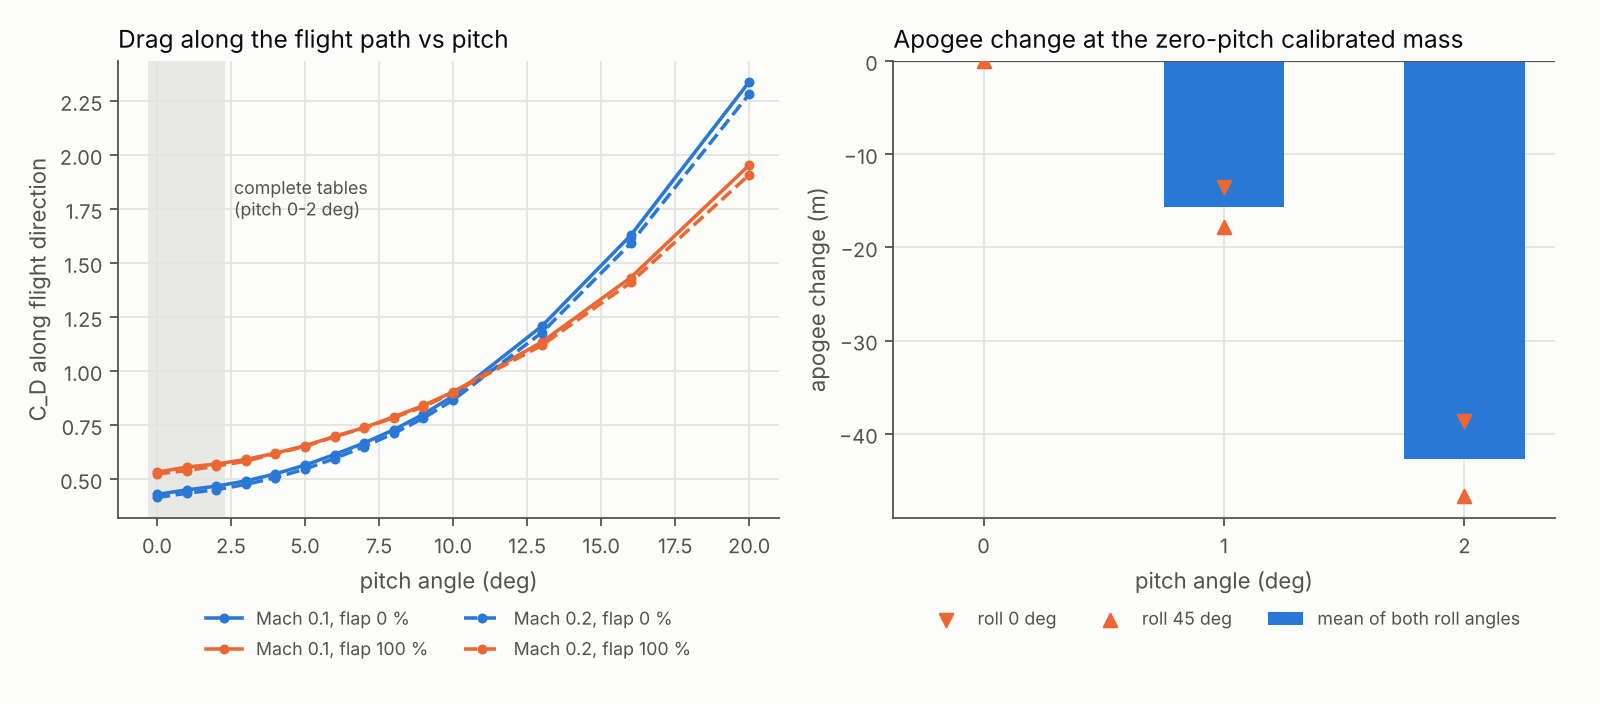
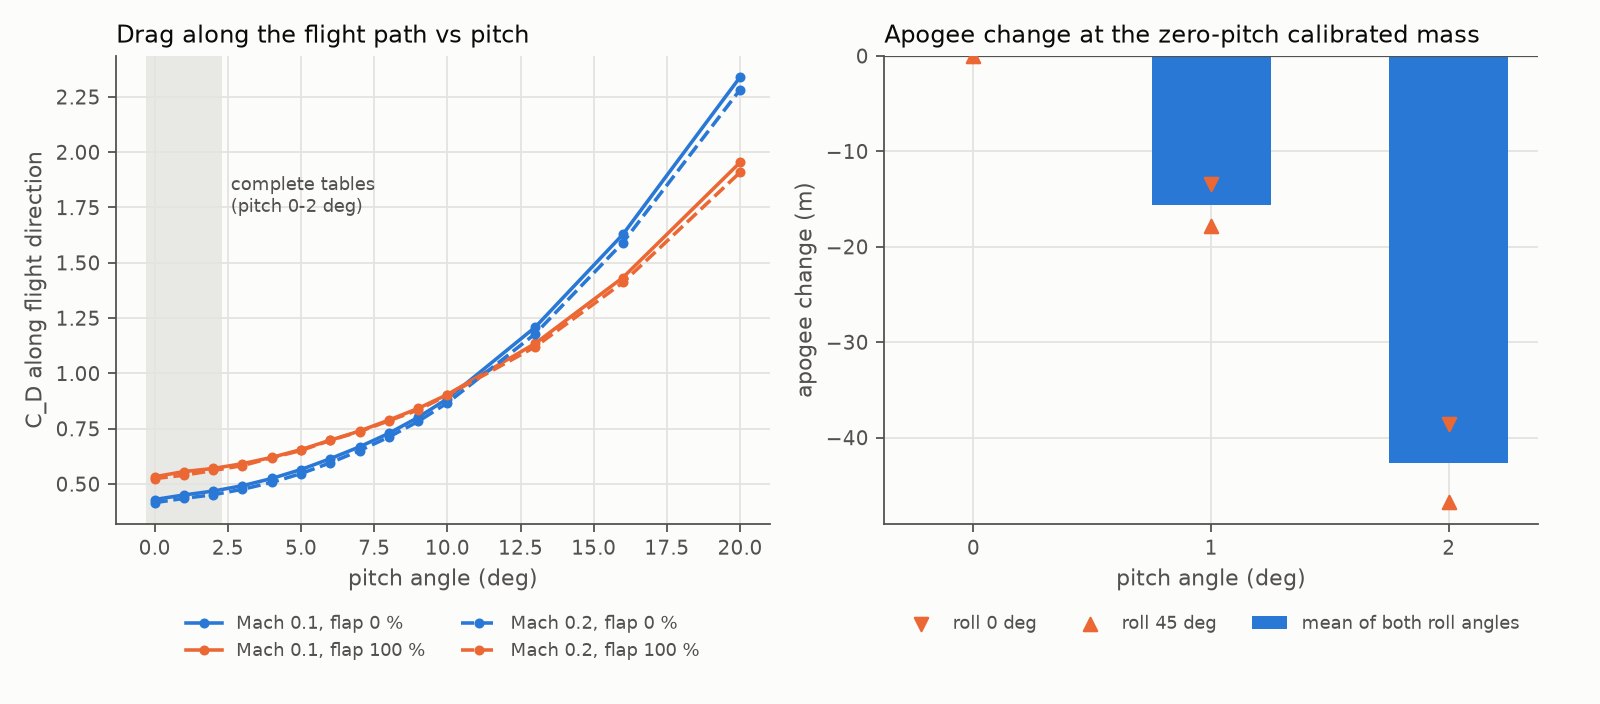
Refresh results

diff --git a/docs/results.md b/docs/results.md
@@ -23,8 +23,8 @@ Observed order (Euler over 6 steps, RK4 over the first 4): Euler 1.00, RK4 4.01
 
 | method | mass (kg) | simulations | time (s) |
 |---|---|---|---|
-| bisect | 35.9923 | 25 | 0.60 |
-| brent | 35.9923 | 11 | 0.23 |
+| bisect | 35.9923 | 25 | 0.54 |
+| brent | 35.9923 | 11 | 0.25 |
 
 Check with DOP853 reference at the calibrated mass: apogee 3450.001 m (target 3450.0 m)
 
@@ -33,14 +33,14 @@ Check with DOP853 reference at the calibrated mass: apogee 3450.001 m (target 34
 | dt (s) | Euler error (m) | RK4 error (m) | Euler evals | RK4 evals |
 |---|---|---|---|---|
 | 0.8000 | 6.228e+01 | 3.943e-03 | 90 | 360 |
-| 0.4000 | 3.152e+01 | 2.351e-03 | 119 | 476 |
-| 0.2000 | 1.586e+01 | 3.702e-04 | 177 | 708 |
-| 0.1000 | 7.952e+00 | 2.044e-05 | 293 | 1172 |
-| 0.0500 | 3.983e+00 | 1.263e-05 | 525 | 2100 |
-| 0.0250 | 1.993e+00 | 1.111e-05 | 988 | 3956 |
-| 0.0125 | 9.968e-01 | 5.852e-06 | 1915 | 7664 |
+| 0.4000 | 3.152e+01 | 2.350e-03 | 119 | 476 |
+| 0.2000 | 1.586e+01 | 3.707e-04 | 177 | 708 |
+| 0.1000 | 7.952e+00 | 2.093e-05 | 293 | 1172 |
+| 0.0500 | 3.983e+00 | 1.214e-05 | 525 | 2100 |
+| 0.0250 | 1.993e+00 | 1.062e-05 | 988 | 3956 |
+| 0.0125 | 9.968e-01 | 6.342e-06 | 1915 | 7664 |
 
-Observed order (first 5 steps): Euler 0.99, RK4 2.07
+Observed order (first 5 steps): Euler 0.99, RK4 2.09
 
 ### RK4 error vs smoothness of C_D(Mach) (reference: DOP853, rtol 1e-13)
 
@@ -48,11 +48,11 @@ Observed order (first 5 steps): Euler 0.99, RK4 2.07
 |---|---|---|---|
 | 0.8000 | 3.94e-03 | 6.55e-04 | 2.32e-04 |
 | 0.4000 | 2.35e-03 | 4.55e-05 | 1.41e-05 |
-| 0.2000 | 3.70e-04 | 1.35e-06 | 8.71e-07 |
-| 0.1000 | 2.05e-05 | 6.93e-07 | 5.40e-08 |
-| 0.0500 | 1.26e-05 | 1.43e-07 | 3.36e-09 |
-| 0.0250 | 1.11e-05 | 4.80e-08 | 2.04e-10 |
-| 0.0125 | 5.89e-06 | 1.83e-08 | 1.36e-12 |
+| 0.2000 | 3.70e-04 | 1.36e-06 | 8.71e-07 |
+| 0.1000 | 2.01e-05 | 6.99e-07 | 5.40e-08 |
+| 0.0500 | 1.30e-05 | 1.37e-07 | 3.36e-09 |
+| 0.0250 | 1.15e-05 | 5.41e-08 | 2.02e-10 |
+| 0.0125 | 5.47e-06 | 1.22e-08 | 4.55e-13 |
 
 RK4 is fourth order only for the smooth C_D; slope jumps in the interpolated table cap the observed order and set an error floor, far below the modelling uncertainty (metres).
 
@@ -98,29 +98,29 @@ Drag-free apogee: 4545 m. Mass if 3450 m were height gained instead of altitude:
 
 | configuration | time per apogee run (ms) |
 |---|---|
-| baseline RK4 (full C_D lookup each evaluation) | 49.2 |
-| optimised RK4 (flap slice precomputed) | 28.2 |
-| adaptive DOP853 (rtol 1e-8) | 14.9 |
+| baseline RK4 (full C_D lookup each evaluation) | 44.6 |
+| optimised RK4 (flap slice precomputed) | 20.6 |
+| adaptive DOP853 (rtol 1e-8) | 9.4 |
 
-Speed-up from optimisation: 1.7x. Right-hand-side evaluations per run: 2100.
+Speed-up from optimisation: 2.2x. Right-hand-side evaluations per run: 2100.
 
 Profile of the baseline run:
 
 ```
-         87157 function calls in 0.112 seconds
+         87157 function calls in 0.098 seconds
 
    Ordered by: cumulative time
    List reduced from 24 to 8 due to restriction <8>
 
    ncalls  tottime  percall  cumtime  percall filename:lineno(function)
-        1    0.000    0.000    0.112    0.112 /home/claude/rocketapogeeprediction-mma3001/src/coast.py:80(simulate_apogee)
-        1    0.001    0.001    0.112    0.112 /home/claude/rocketapogeeprediction-mma3001/src/integrators.py:56(integrate_to_apogee)
-      525    0.014    0.000    0.111    0.000 /home/claude/rocketapogeeprediction-mma3001/src/integrators.py:34(rk4_step)
-     2100    0.011    0.000    0.096    0.000 /home/claude/rocketapogeeprediction-mma3001/src/coast.py:69(rhs)
-     2100    0.003    0.000    0.077    0.000 /home/claude/rocketapogeeprediction-mma3001/src/coast.py:60(<lambda>)
-     2100    0.007    0.000    0.074    0.000 /home/claude/rocketapogeeprediction-mma3001/src/drag.py:311(__call__)
-     2100    0.016    0.000    0.057    0.000 /home/claude/rocketapogeeprediction-mma3001/src/drag.py:303(_cd_columns)
-     8400    0.016    0.000    0.045    0.000 /usr/local/lib/python3.13/dist-packages/numpy/lib/_function_base_impl.py:1549(interp)
+        1    0.000    0.000    0.097    0.097 C:\MMA3001 Project\rocketApogeePrediction-MMA3001\src\coast.py:80(simulate_apogee)
+        1    0.001    0.001    0.097    0.097 C:\MMA3001 Project\rocketApogeePrediction-MMA3001\src\integrators.py:56(integrate_to_apogee)
+      525    0.013    0.000    0.097    0.000 C:\MMA3001 Project\rocketApogeePrediction-MMA3001\src\integrators.py:34(rk4_step)
+     2100    0.008    0.000    0.083    0.000 C:\MMA3001 Project\rocketApogeePrediction-MMA3001\src\coast.py:69(rhs)
+     2100    0.002    0.000    0.068    0.000 C:\MMA3001 Project\rocketApogeePrediction-MMA3001\src\coast.py:60(<lambda>)
+     2100    0.005    0.000    0.065    0.000 C:\MMA3001 Project\rocketApogeePrediction-MMA3001\src\drag.py:311(__call__)
+     2100    0.013    0.000    0.052    0.000 C:\MMA3001 Project\rocketApogeePrediction-MMA3001\src\drag.py:303(_cd_columns)
+     8400    0.013    0.000    0.043    0.000 C:\MMA3001 Project\rocketApogeePrediction-MMA3001\.venv\Lib\site-packages\numpy\lib\_function_base_impl.py:1550(interp)
 
 
 ```
